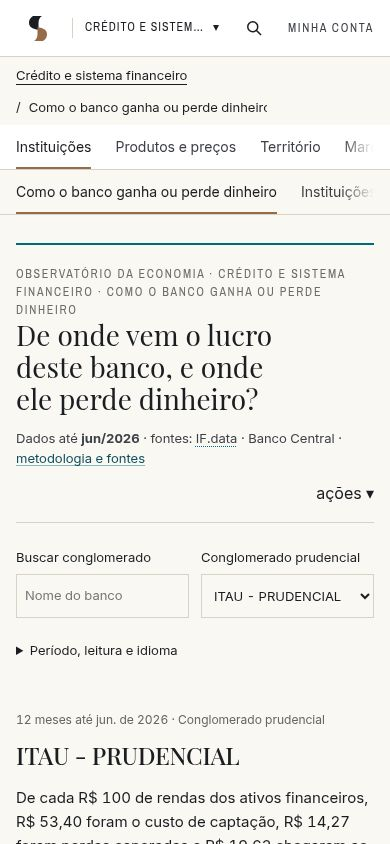
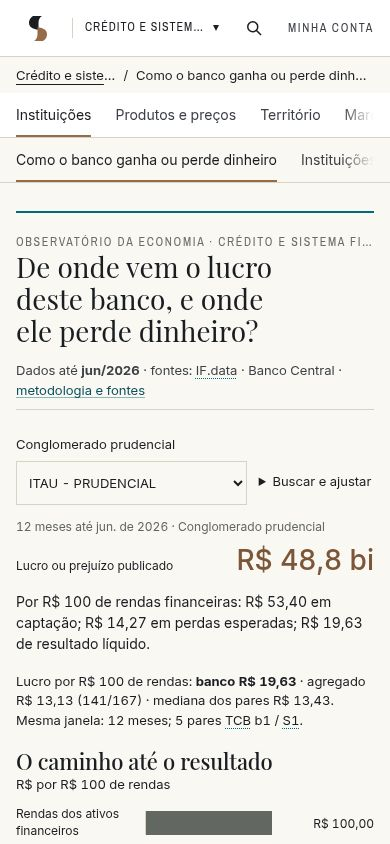
docs(credito): registrar evidências finais e revisão do painel

diff --git a/docs/ux-2026-10-25/lucro-do-banco/revisao-final.md b/docs/ux-2026-10-25/lucro-do-banco/revisao-final.md
@@ -1,0 +1,27 @@
+# Revisão e documentação da extensão
+
+Build final: `YV2zK6pC7mvNhKA2c3aQW`, 25/10/2026. [Evidências](evidencias.md). Revisores independentes, somente leitura.
+
+## Acabamento
+
+Disposição final: **ship**. Os três achados foram classificados como **resolved**: barras públicas visíveis com o token `mineral`; abertura móvel com seleção, período, lucro, frase, comparação e primeiro degrau, cromo de 183 px dentro do teto de 200 px; comparação inicial por R$100 de rendas entre banco, agregado e mediana de pares, mesma janela e cobertura declarada. Nenhuma regressão material observada no lote. O parecer trata dessa lista, sem substituir os testes ou constituir certificação integral de acessibilidade.
+
+## Documentação do sistema
+
+Extensão ordinária, preservando a identidade existente. Não há PRODUCT.md ou DESIGN.md literal: a autoridade equivalente é a skill observatorio-layout e `docs/observatorios/DESIGN_SYSTEM_OBSERVATORIOS.md`, conforme ORIGEM.md do Impeccable. Não se criou documentação global paralela.
+
+O módulo usa papel, carvão, bronze, mineral, superfície e linha do sistema; títulos herdam Playfair e corpo Inter. Controles nativos, filetes, cantos retos, foco explícito, movimento condicionado e ConviteAperitivo são reutilizados. Cascata vertical móvel, rubricas acionáveis, faixas tracejadas e comparação inicial são decisões desta superfície.
+
+O documenter examinou contrato, JS/CSS/TSX, método, evidencias.md/json e capturas públicas/autenticadas. Registrou os resultados existentes de 12 combinações sem rolagem horizontal, violações axe, erros de console ou requisições indevidas ao login; não reexecutou testes. Não há raster novo no produto: as imagens são evidências de desenvolvimento.
+
+Diferenças observadas: o módulo mantém tamanhos locais em px e destaque numérico sans, enquanto a norma global recomenda escala compartilhada e destaque em serifa. Isso não cria regra global; a origem temporal dessas diferenças não foi estabelecida. Drift documental preexistente: a tabela global ainda cita Crédito entre usos de painel escuro, embora o documento e styles.css registrem sua retirada. Registrado sem reparo fora do escopo.
+
+## Verificação
+
+- Pipeline completo: 2.479 testes, 11 pulados, sem falhas; camadas complementares também aprovadas.
+- Cálculo bancário e reprodução da gold: 29 testes aprovados; seis DREs empíricas conciliadas com tolerância absoluta de R$1.
+- Primeira execução de verificar:pr: lint, tipos, Python, build, cobertura bilíngue e 224 verificações do Judiciário aprovados. Vitest: 9.638 aprovados, 7 falhas, 12 pulados e 1 todo. Três falhas eram comprimento/posição da nova abertura; quatro eram limites de tempo em módulos existentes.
+- Após correção e incorporação de main: novo build aprovado. Repetição com um worker: **63 testes aprovados**, incluindo os quatro arquivos antes reprovados e o painel de lucro. Não houve relaxamento dos limites de comprimento ou de tempo.
+- As capturas finais incluem as três larguras, com e sem sessão. O painel sem conta redireciona ao login; a entrada pública permanece aberta.
+
+- Filtro final `npm run verificar:rapido`: lint, tipos, derivados e cobertura bilíngue aprovados; **7.204 testes aprovados em 277 arquivos**, 12 pulados e 1 todo.

diff --git a/docs/ux-2026-10-25/lucro-do-banco/evidencias.md b/docs/ux-2026-10-25/lucro-do-banco/evidencias.md
@@ -1,6 +1,6 @@
 ### Evidências de página (2026-10-25)
 
-Build 839kDMi8HBaKpVkYPaVBS, `next start` local com banco temporário e sessão de teste. Máquina: 5 vCPU, 33 GB. Comando: `npm run evidencias -- --rotas /observatorio-do-credito /observatorio/bank-profit --saida docs/ux-2026-10-25/lucro-do-banco`. Tempo: 0 min 58 s.
+Build YV2zK6pC7mvNhKA2c3aQW, `next start` local com banco temporário e sessão de teste. Máquina: 5 vCPU, 33 GB. Comando: `npm run evidencias -- --rotas /observatorio-do-credito /observatorio/bank-profit --saida docs/ux-2026-10-25/lucro-do-banco`. Tempo: 1 min 08 s.
 
 Cromo: do topo da barra comum ao início do conteúdo, em px, com o orçamento da Iniciativa 2 a 390 e 1440 px. Axe: violações WCAG 2.1 A e AA (regra e número de nós). Login: requisições feitas pela página (arquivos, dados, APIs) que caíram em /entrar; o redirecionamento da própria página aparece na coluna Endereço final.
 
@@ -15,6 +15,6 @@ Cromo: do topo da barra comum ao início do conteúdo, em px, com o orçamento d
 | `/observatorio/bank-profit` | sem | 390 | 200 | `/entrar?de=%2Fobservatorio%2Fbank-profit` | sem barra comum | sim | não | 0 | 0 | 0 | [página](observatorio_bank_profit-390-sem-sessao.jpg) · [1ª tela](observatorio_bank_profit-390-sem-sessao-primeira-tela.jpg) |
 | `/observatorio/bank-profit` | sem | 768 | 200 | `/entrar?de=%2Fobservatorio%2Fbank-profit` | sem barra comum | sim | não | 0 | 0 | 0 | [página](observatorio_bank_profit-768-sem-sessao.jpg) · [1ª tela](observatorio_bank_profit-768-sem-sessao-primeira-tela.jpg) |
 | `/observatorio/bank-profit` | sem | 1440 | 200 | `/entrar?de=%2Fobservatorio%2Fbank-profit` | sem barra comum | sim | não | 0 | 0 | 0 | [página](observatorio_bank_profit-1440-sem-sessao.jpg) · [1ª tela](observatorio_bank_profit-1440-sem-sessao-primeira-tela.jpg) |
-| `/observatorio/bank-profit` | com | 390 | 200 |  | 215 **acima de 200** | sim | não | 0 | 0 | 0 | [página](observatorio_bank_profit-390-com-sessao.jpg) · [1ª tela](observatorio_bank_profit-390-com-sessao-primeira-tela.jpg) |
+| `/observatorio/bank-profit` | com | 390 | 200 |  | 183 (até 200) | sim | não | 0 | 0 | 0 | [página](observatorio_bank_profit-390-com-sessao.jpg) · [1ª tela](observatorio_bank_profit-390-com-sessao-primeira-tela.jpg) |
 | `/observatorio/bank-profit` | com | 768 | 200 |  | 272 | sim | não | 0 | 0 | 0 | [página](observatorio_bank_profit-768-com-sessao.jpg) · [1ª tela](observatorio_bank_profit-768-com-sessao-primeira-tela.jpg) |
 | `/observatorio/bank-profit` | com | 1440 | 200 |  | 228 (até 230) | sim | não | 0 | 0 | 0 | [página](observatorio_bank_profit-1440-com-sessao.jpg) · [1ª tela](observatorio_bank_profit-1440-com-sessao-primeira-tela.jpg) |
